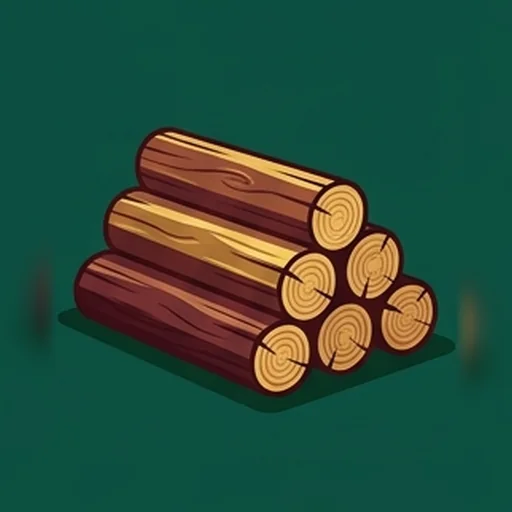
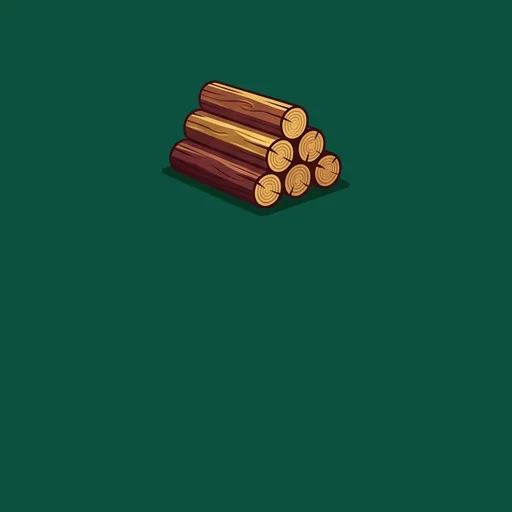
Lay out the painted lands like a game board: object on top, number below
The Casino and Basic Clean lands now have their object scaled down in the
top of the hex, and the number disc sits a quarter of a hex below the
centre (the new Theme.tokenDrop), so the two no longer overlap.

Claude-Session: https://claude.ai/code/session_01Sfzcs5BDfJYScEUTSDvCQ5

diff --git a/apps/web/src/board/Board.tsx b/apps/web/src/board/Board.tsx
@@ -453,6 +453,7 @@ function BoardImpl({ state, targets, onAction, theme: given, rolled }: BoardProp
         const isSea = type === 'sea' || shoal;
         const lakeNumbers = type === 'fishingLake' ? ((h.props?.tokens as number[]) ?? []) : [];
         const c = hexToPixel(h.q, h.r, S);
+        const drop = S * (theme.tokenDrop ?? 0);
         const key = isSea ? 'sea' : type;
         const fill = patterned.has(key)
           ? `url(#pat-${key})`
@@ -606,14 +607,14 @@ function BoardImpl({ state, targets, onAction, theme: given, rolled }: BoardProp
                 {theme.pieces?.token ? (
                   theme.pieces.token({
                     x: c.x,
-                    y: c.y,
+                    y: c.y + drop,
                     r: S * TOKEN_R,
                     hot: h.token === 6 || h.token === 8,
                   })
                 ) : (
                   <circle
                     cx={c.x}
-                    cy={c.y}
+                    cy={c.y + drop}
                     r={S * TOKEN_R}
                     fill={theme.token}
                     stroke={theme.outline}
@@ -622,7 +623,7 @@ function BoardImpl({ state, targets, onAction, theme: given, rolled }: BoardProp
                 )}
                 <text
                   x={c.x}
-                  y={c.y + S * 0.06}
+                  y={c.y + drop + S * 0.06}
                   textAnchor="middle"
                   fontSize={S * 0.3}
                   fontWeight={700}
@@ -641,7 +642,7 @@ function BoardImpl({ state, targets, onAction, theme: given, rolled }: BoardProp
                     <circle
                       key={i}
                       cx={c.x + Math.cos(a) * S * PIP_ARC}
-                      cy={c.y + Math.sin(a) * S * PIP_ARC}
+                      cy={c.y + drop + Math.sin(a) * S * PIP_ARC}
                       r={S * 0.025}
                       fill={h.token === 6 || h.token === 8 ? theme.tokenHot : theme.tokenText}
                     />

diff --git a/apps/web/src/theme/clean.ts b/apps/web/src/theme/clean.ts
@@ -58,6 +58,9 @@ export interface Theme {
   landOverlay?: string;
   /** Hand-drawn pieces for themes that have their own; anything left out uses the plain shapes. */
   pieces?: ThemePieces;
+  /** How far below the hex centre the number disc sits, as a share of the hex size, leaving
+   *  the top of the hex for the land's picture. */
+  tokenDrop?: number;
   /** The font for number tokens and harbor ratios. */
   tokenFont?: string;
   /**

diff --git a/apps/web/src/theme/boards/painted.tsx b/apps/web/src/theme/boards/painted.tsx
@@ -88,6 +88,8 @@ export function paintedBoard(k: PaintedSpec): Theme {
       pieceEffect: 'lift',
       pieces: k.token ? { road: road(k.ink), token: k.token } : { road: road(k.ink) },
       boardBackground: k.sea,
+      // The land's object sits in the top of the hex, the number below the centre.
+      tokenDrop: 0.25,
       ...k.rest,
     },
   });
